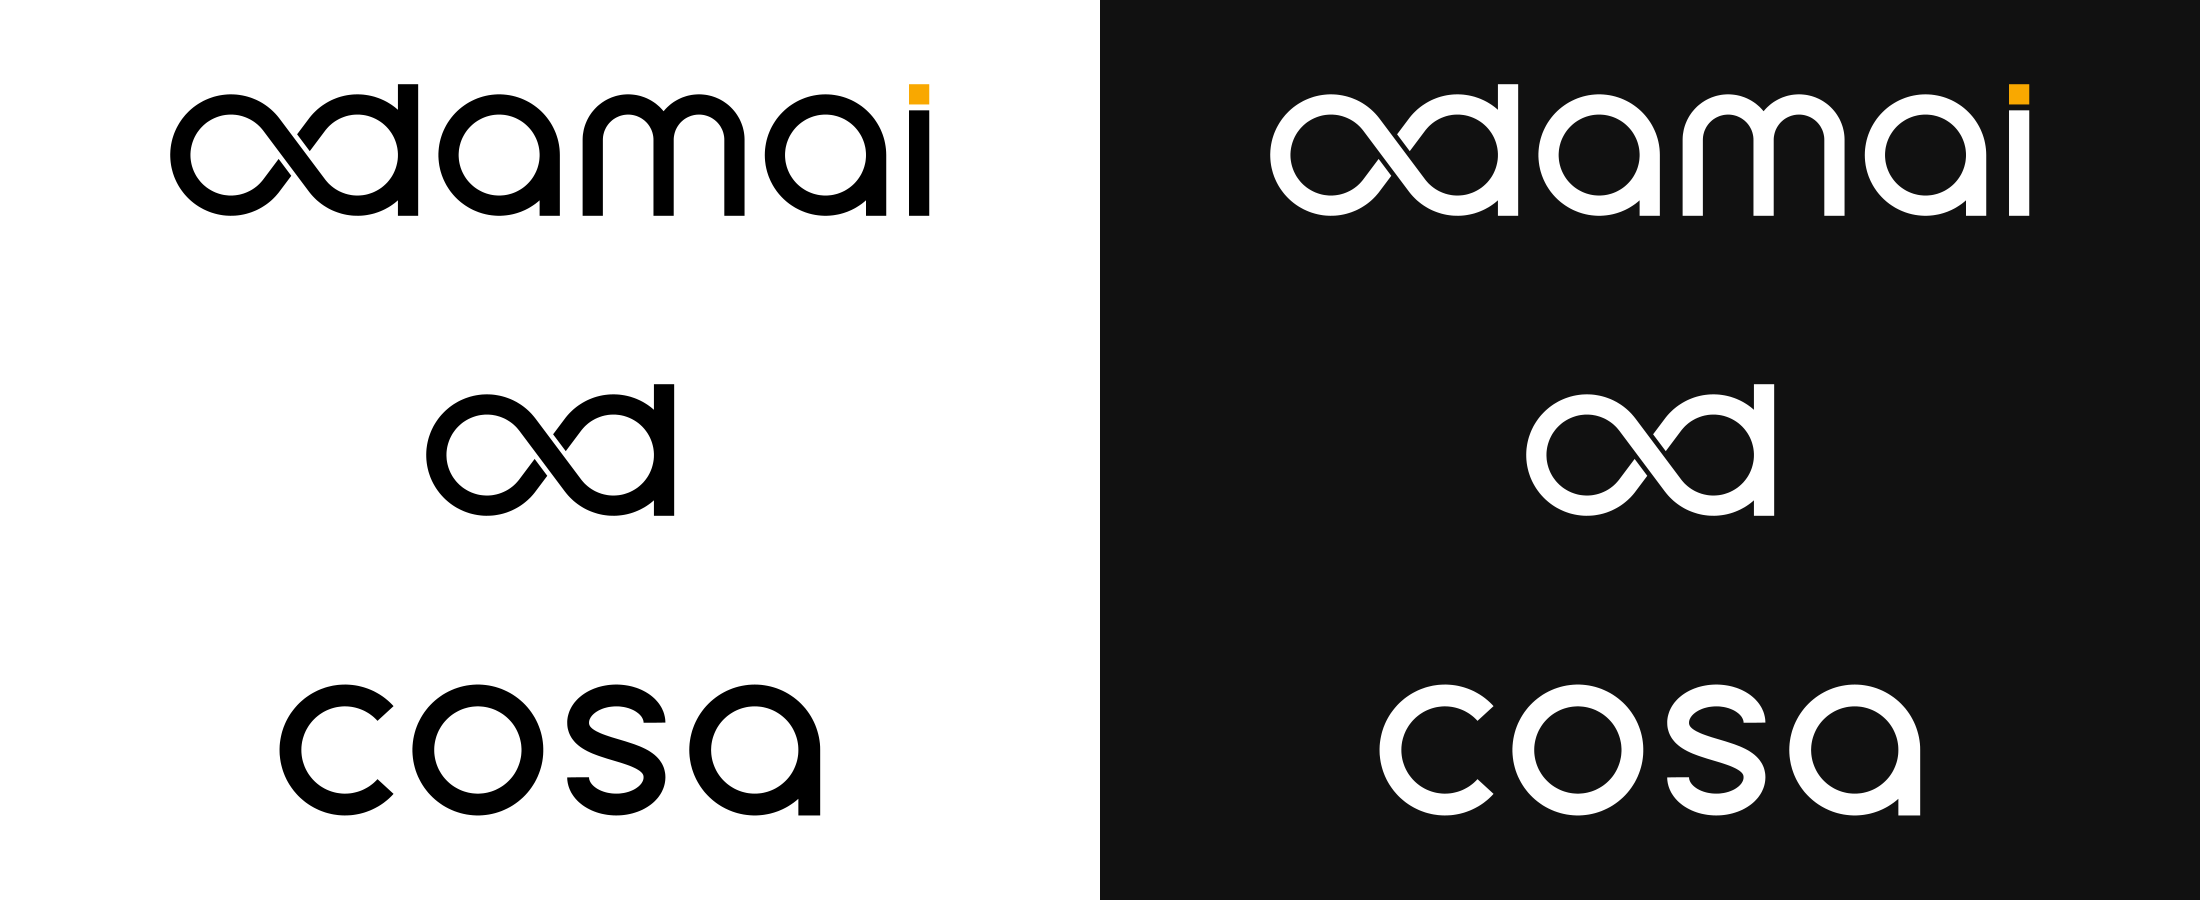
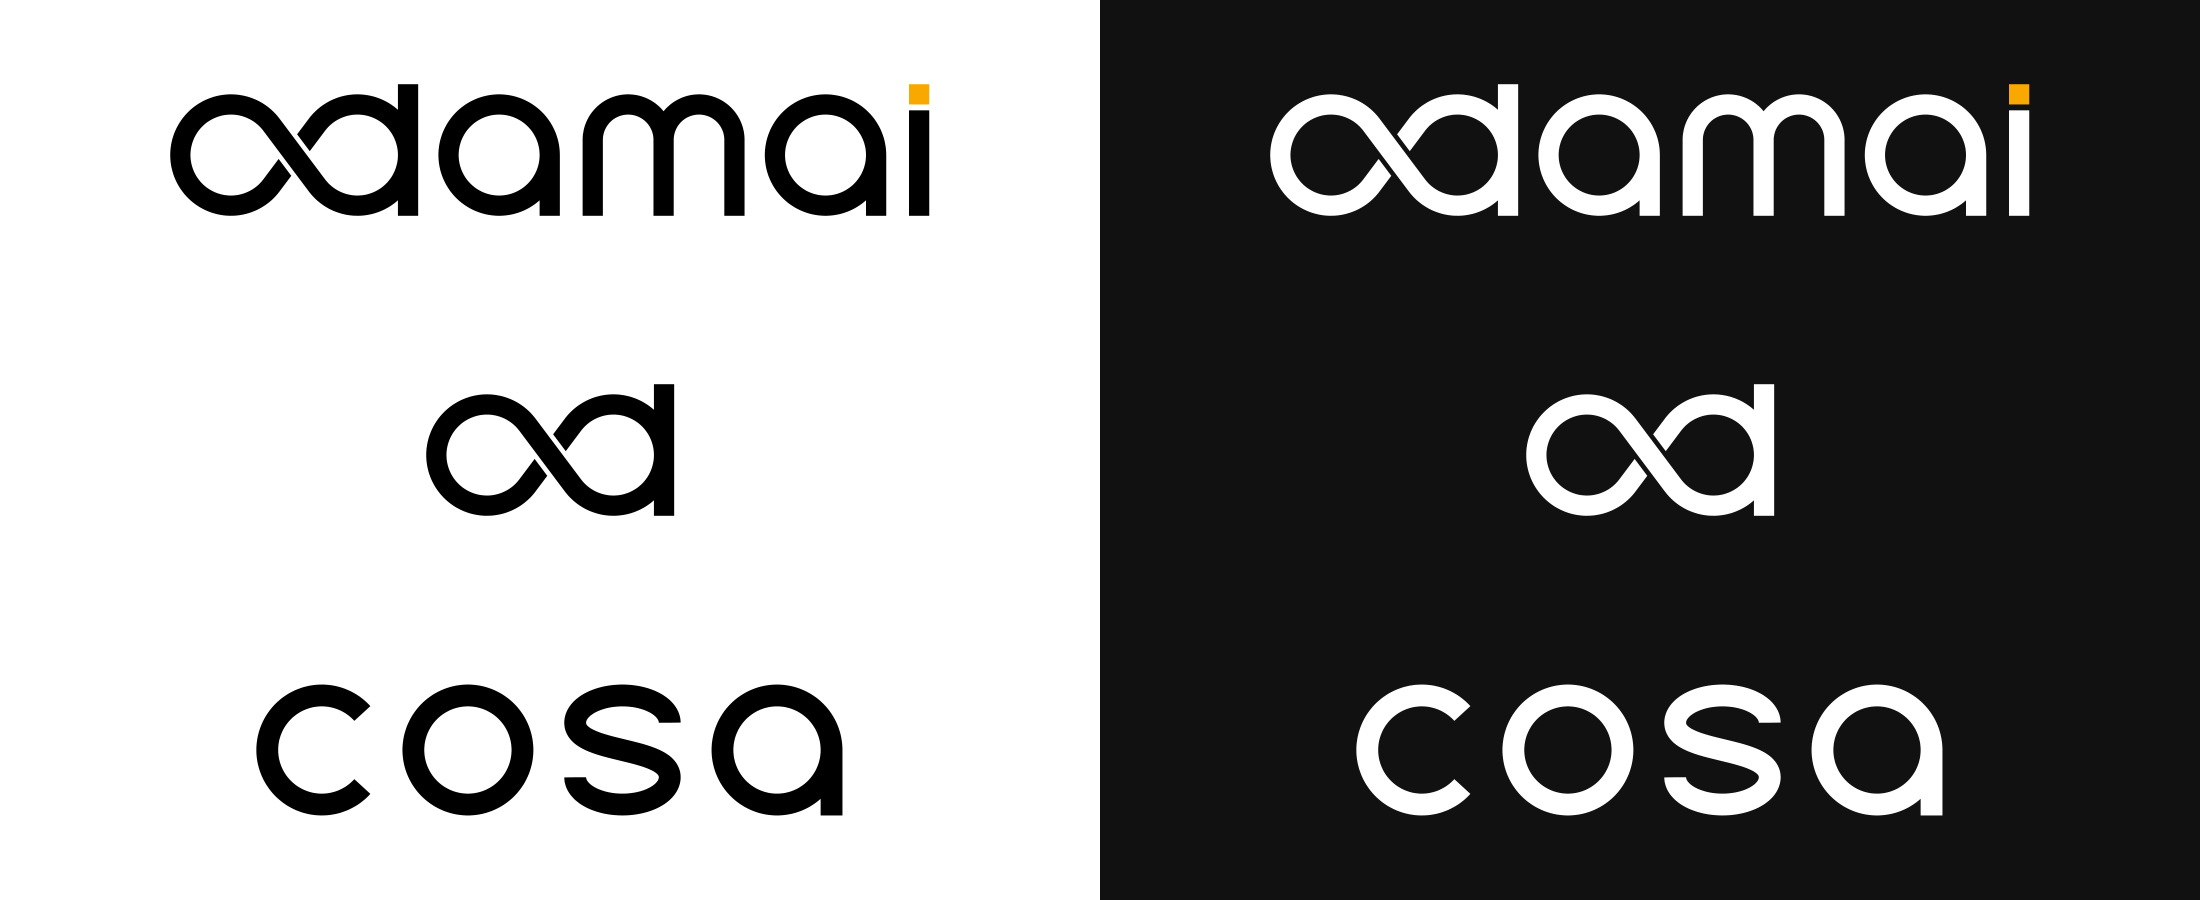
monospace cosa, only

Changed region(s): [[0.6182, 0.7467, 0.8964, 0.9333], [0.2782, 0.7467, 0.4018, 0.9333], [0.0927, 0.7467, 0.2473, 0.9022]]

diff --git a/tools/geometry.py b/tools/geometry.py
@@ -35,13 +35,10 @@ I_GAP = 14.0  # gap between the i stem and its square dot
 
 # cosa
 C_OPEN = 42.0  # opening of the c: angle (deg) of each end from the horizontal
-S_HALF = 84.0  # half-width of the s bowls (104 in the monospace variant)
+S_HALF = 104.0  # half-width of the s bowls
 S_TENSION = 70.0  # tension of the s spine
 S_END = 0.0  # s ends cut straight across at the widest point of each bowl (deg offset)
-SPACING = 100.0  # optical spacing: average white between neighbouring letters
-SPACING_DEPTH = 50.0  # how far into an open side (the c) white still counts
-MONO_CELL = 340.0  # cell width for the monospace cosa
-MONO_S_HALF = 104.0
+CELL = 340.0  # equal letter cell width for cosa
 
 
 def _arc(c, rad, a0, a1, n=240):
@@ -195,49 +192,20 @@ def _letter_s(xl, half=S_HALF):
     return shape, cx + a + W
 
 
-def _profile(g, side, ys):
-    xmin, _, xmax, _ = g.bounds
-    out = []
-    for y in ys:
-        hit = g.intersection(box(-1e4, y - 0.5, 1e4, y + 0.5))
-        if hit.is_empty:
-            out.append(
-                xmax - SPACING_DEPTH if side == "right" else xmin + SPACING_DEPTH
-            )
-        else:
-            hb = hit.bounds
-            out.append(
-                max(hb[2], xmax - SPACING_DEPTH)
-                if side == "right"
-                else min(hb[0], xmin + SPACING_DEPTH)
-            )
-    return np.array(out)
-
-
-def cosa(mono=False):
-    """The cosa wordmark. Default: optical spacing. mono=True: every letter centred in an equal cell."""
+def cosa():
+    """The cosa wordmark: every letter is centred in an equal cell."""
     glyphs = [
         _letter_c(0)[0],
         _letter_o(0)[0],
-        _letter_s(0, MONO_S_HALF if mono else S_HALF)[0],
+        _letter_s(0)[0],
         _letter_a(0)[0],
     ]
     parts = []
-    if mono:
-        for i, g in enumerate(glyphs):
-            xmin, _, xmax, _ = g.bounds
-            parts.append(
-                affinity.translate(
-                    g, C[0] + i * MONO_CELL + MONO_CELL / 2 - (xmin + xmax) / 2, 0
-                )
+    for i, g in enumerate(glyphs):
+        xmin, _, xmax, _ = g.bounds
+        parts.append(
+            affinity.translate(
+                g, C[0] + i * CELL + CELL / 2 - (xmin + xmax) / 2, 0
             )
-    else:
-        ys = np.linspace(TOP - W + 1, BASE + W - 1, 300)
-        offset = C[0] - glyphs[0].bounds[0]
-        for i, g in enumerate(glyphs):
-            if i:
-                offset += SPACING - np.mean(
-                    _profile(g, "left", ys) - _profile(glyphs[i - 1], "right", ys)
-                )
-            parts.append(affinity.translate(g, offset, 0))
+        )
     return unary_union(parts).simplify(0.05)

diff --git a/tools/build.py b/tools/build.py
@@ -170,12 +170,11 @@ def build_logos():
         out[name] = svg([(mark, fg)], "adamai")
         export_logo("logos/adamai-mark", name, out[name])
 
-    for mono in (False, True):
-        geom = g.cosa(mono=mono)
-        for colour, fg in (("black", ink), ("white", paper)):
-            name = f"cosa{'-mono' if mono else ''}-{colour}"
-            out[name] = svg([(geom, fg)], "cosa")
-            export_logo("logos/cosa", name, out[name])
+    geom = g.cosa()
+    for colour, fg in (("black", ink), ("white", paper)):
+        name = f"cosa-{colour}"
+        out[name] = svg([(geom, fg)], "cosa")
+        export_logo("logos/cosa", name, out[name])
     return out, letters, dot, mark
 
 

diff --git a/README.md b/README.md
@@ -27,7 +27,7 @@ adamai-brand/
 ├── logos/
 │   ├── adamai/        svg/  png/       adamai-primary · -reversed · -black · -white
 │   ├── adamai-mark/   svg/  png/  icons/   mark, app icons, favicon.ico/.svg, apple-touch-icon
-│   └── cosa/          svg/  png/       cosa-black · -white · cosa-mono-black · -white
+│   └── cosa/          svg/  png/       cosa-black · -white
 ├── colors/            palette.png  colors.json  colors.css  colors.scss
 ├── docs/              overview, clear space, minimum size, misuse, history/
 ├── tools/             geometry.py  build.py
@@ -69,12 +69,11 @@ the brand is already established in context (social avatars, app icons, browser 
 
 Built from exactly the same stroke, letter height and round letters as adamai, so the two read as
 one family. The **s** is point-symmetric and its ends are cut straight at the widest point of each
-bowl.
+bowl. Every letter sits in an equal-width cell, giving the wordmark a monospace construction.
 
 | Variant | Spacing | File |
 |---|---|---|
-| `cosa-black` / `cosa-white` | Optical (each pair has the same amount of white) — **the default** | |
-| `cosa-mono-black` / `cosa-mono-white` | Monospace (every letter in an equal cell, wider s) — technical contexts, e.g. code, CLI, docs | |
+| `cosa-black` / `cosa-white` | Monospace (every letter in an equal cell) | |
 
 ### Formats
 
@@ -155,7 +154,7 @@ shares their round, monoline character:
 
 - **Headings:** [Jost](https://fonts.google.com/specimen/Jost) (open source, SIL OFL) — Futura-like geometry.
 - **Body and UI:** [Inter](https://rsms.me/inter/) (open source, SIL OFL).
-- **Code:** any monospace; the monospace cosa variant pairs well with it.
+- **Code:** any monospace; the cosa wordmark pairs well with it.
 
 In running text write the names in lower case: adamai, cosa.
 

diff --git a/CHANGELOG.md b/CHANGELOG.md
@@ -13,8 +13,7 @@ First release.
   dot aligned with the top of the d. Variants: primary, reversed, black, white.
 - **adamai mark**: the "ad" on its own; app icons (dark/light, 16–512 px), `favicon.ico`,
   adaptive `favicon.svg`, `apple-touch-icon.png`.
-- **cosa wordmark**: c, o, symmetric s and a in the same construction, with optical spacing.
-  Monospace variant with a wider s.
+- **cosa wordmark**: c, o, symmetric s and a in the same construction, with monospace spacing.
 - **Colour palette**: Signal Yellow `#F9A800` (RGB 249 168 0) plus Ink, Night, Fog and Paper;
   design tokens as JSON, CSS and SCSS.
 - **Guidelines**: clear space, minimum sizes, backgrounds, misuse, typography.
